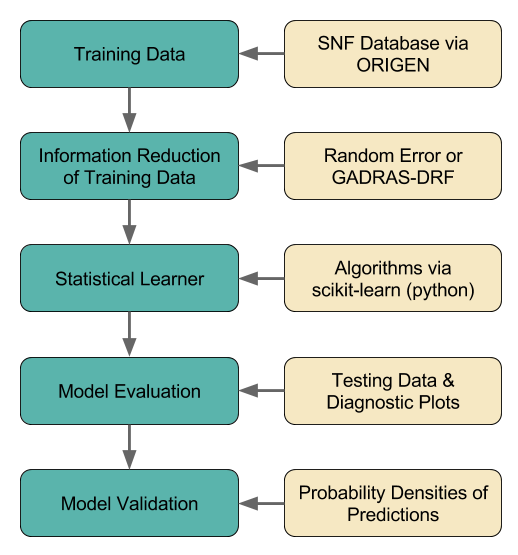
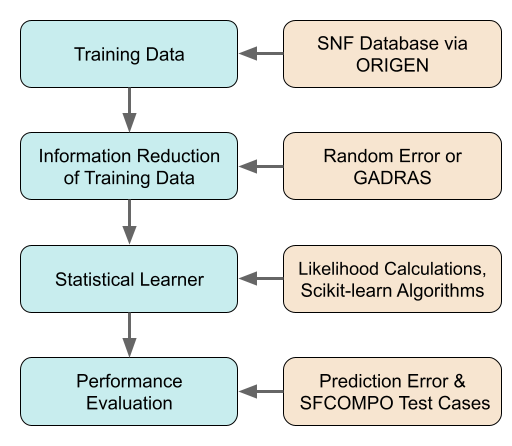
done with first pass edits on intro

diff --git a/document/chapters/intro/intro.tex b/document/chapters/intro/intro.tex
@@ -2,20 +2,20 @@
 \label{ch:intro}
 
 The realm of nuclear security involves parallel efforts in nonproliferation
-(verification of treaty compliance, monitoring for smuggling, proper storage
-and transportation of nuclear materials), cyber security, minimizing stocks of
+(verification of treaty compliance, monitoring for smuggling, proper storage and
+transportation of nuclear materials), cyber security, minimizing stocks of
 weaponizable materials, disaster response training, and nuclear forensics. All
 of these efforts have been continually improving, but there was a gap regarding
 the ability of the \gls{US} to coordinate and respond to a nuclear incident,
-especially with the technical portion of nuclear forensics: characterization
-and analysis. After all, the first textbook on the topic was published in 2005
+especially with the technical portion of nuclear forensics: characterization and
+analysis. After all, the first textbook on the topic was published in 2005
 \cite{nftext_2005}. In 2006, the \gls{US} \gls{DHS} founded the \gls{NTNFC}
 within the \gls{DNDO}, with the mission to establish a robust nuclear forensics
 capability by attributing radioactive materials with demonstrable proof. This
-endeavor was and is highly dependent on inter-agency cooperation. In
-2017 \-- 2018, the \gls{DNDO} was absorbed into the newer \gls{CWMD} office, and
-in 2019, much of the nuclear forensics research operation was moved to multiple
-offices within the \gls{DOE} \gls{NNSA}. 
+endeavor was and is highly dependent on inter-agency cooperation. In 2017 \--
+2018, the \gls{DNDO} was absorbed into the newer \gls{CWMD} office, and in 2019,
+much of the nuclear forensics research operation was moved to multiple offices
+within the \gls{DOE} \gls{NNSA}. 
 
 Multiple fields contribute to a nuclear forensics capability, such as
 radiochemical separations, material collection techniques, detector technology,
@@ -23,7 +23,26 @@ material library development, and identifying forensic signatures. These needs
 vary based on whether the material being collected is post-detonation (e.g.,
 bomb debris) or pre-detonation (e.g., \glsreset{SNF}\gls{SNF}).  In the
 pre-detonation realm, this project focuses on statistical methods to to model
-\gls{SNF} production history using nondestructive detector measurements. 
+the production history of a nuclear material using measurements of nuclides
+present in the \gls{SNF}.
+
+\gls{SNF} is identified in this work by focusing on four characteristics in
+particular that can potentially provide material attribution: reactor type,
+burnup, initial \gls{U235} enrichment, and time since fuel irradiation. 
+\todo[inline]{need to introduce this early but not sure I like it here}
+\begin{enumerate}
+  \item The reactor type is classified as one of the three most common types of
+  commercial power reactors: \gls{PWR}, \gls{BWR}, or \gls{PHWR}. 
+  \item The burnup describes how much energy was produced by the fuel, taking
+  on the units megawatt-days (or gigawatt-days) per metric ton of heavy metal
+  (or initial uranium); it is referred to in this work as $MWd/MTU$, and
+  sometimes $GWd/MTU$.  
+  \item The enrichment is the percentage of \gls{U235} with respect to the
+  entire amount of uranium in the fuel, and is reported as $\%U235$. 
+  \item Lastly, the time since irradiation is defined as how long the fuel has
+  been out of the reactor core, and is discussed usually in $days$, but
+  sometimes $years$. 
+\end{enumerate}
 
 \section{Motivation}
 \label{sec:motivation}
@@ -37,7 +56,7 @@ trafficking or malicious use are summarized in Figure \ref{fig:incidents}.
 These are the circumstances in which a robust nuclear forensics capability is
 beneficial.
 
-\begin{figure}[!bht]
+\begin{figure}[!tbh]
   \makebox[\textwidth][c]{\includegraphics[width=\linewidth]{./chapters/intro/nucleartrafficking.png}}
   \caption{Incidents reported to the \acrshort{IAEA} \acrshort{ITDB} related to 
            malicious use. Included are highly enriched uranium (12), 
@@ -83,125 +102,133 @@ a focus on why statistical methods in particular are being pursued.
 \section{Methodology}
 \label{sec:methodology}
 
-As previously mentioned, the typical workflow of the technical portion of a
-forensics investigation is to take and analyze measurements of an unknown
-nuclear material. The measurements are compared to databases filled with
-previously measured standard materials with known reactor parameters, and/or
-the reactor parameters are calculated from empirical relationships.  As this
-work focuses on \gls{SNF}, these measurements are elemental, chemical, and
-radiological in nature.  Because creating databases from real measurements to
-represent \gls{SNF} from reactor technologies from around the world is not
-within the scope of this project, the database in this study will be created
-from simulations via the \gls{SCALE} \cite{scale} system using \gls{ORIGEN}
-\cite{origen}. 
-
-\todo[inline]{transition}
-The top panel in Figure \ref{fig:nfworkflows} shows an example technical nuclear
-forensics workflow as it could occur in the real world for a pre-detonation
-scenario.  After a sample is obtained, characterization begins.  Next, the
-results of these techniques are then compared against existing standard
-materials databases to obtain the desired reactor parameters. These steps would
-be performed iteratively in a real investigation, first using non-destructive
-measurements, and then destructive measurements.  The steps in Figure
-\ref{fig:nfworkflows} are obtaining reactor history information, if available,
-and reporting the results to the investigators. 
+The main goal of the technical portion of a forensics investigation is to
+provide a means of nuclear material attribution by taking and analyzing
+measurements of the unknown material.  The methodology of this work is based on
+this process. The top panel in Figure \ref{fig:nfworkflows} shows an example
+technical nuclear forensics workflow as it could occur in the real world for a
+pre-detonation scenario.  After a sample is obtained, characterization begins.
+With a focus on \gls{SNF}, elemental, chemical, and radiological measurements
+are taken.  They are compared to databases filled with previously measured
+standard materials with known reactor parameters, and/or the reactor parameters
+are calculated from empirical relationships.  These steps might be performed
+iteratively in a real investigation, first using non-destructive measurements
+(e.g., gamma spectroscopy), and then destructive measurements (e.g., mass
+spectrometry).  The reactor parameters could then allow the lookup of reactor
+history information, if available, and these results would be provided to
+investigators. 
 
 \begin{figure}[!tbh]
   \makebox[\textwidth][c]{\includegraphics[width=\linewidth]{./chapters/intro/ForensicsWorkflows.png}}
-  \caption{Schematic comparing nuclear forensics workflow in the top panel with 
-           two approaches that a research workflow could follow.}
+  \caption{Schematic comparing nuclear forensics investigative workflow in the 
+           top panel with research approaches for physical and computational 
+           experiments.}
   \label{fig:nfworkflows}
 \end{figure}
 
-Next, the middle and bottom panels in Figure \ref{fig:nfworkflows} are
-analagous physical and computational experimental workflows, respectively.
-Both panels would have validated measurements of \gls{SNF}; the middle panel
-shows this being done in the laboratory and the bottom panel shows that these
-are values from a simulation. The goal of an experimental laboratory study is
-to test or develop empirical relationships between forensics signatures and the
-desired reactor parameters. The goal of computational studies can be this,
-finding new empirical relationships, or performing forensics workflows prior to
-the implementation of new reactor technologies.  For studying alternative
-measurement techniques or a slight difference in the overall approach, a
-researcher would iterate through multiple studies using known materials to
-probe sensitivities or other weaknesses in the procedure.
+Next, the investigation process can be translated to an experimental workflow.
+The middle and bottom panels in Figure \ref{fig:nfworkflows} are analagous
+physical and computational experiments, respectively.  Both of these
+experimental scenarios would have validated measurements of \gls{SNF}; the
+middle panel shows this being done in the laboratory and the bottom panel shows
+that these are values from a simulation. The goal of an experimental laboratory
+study is to test or develop empirical relationships between forensics
+signatures and the desired reactor parameters. The goal of computational
+studies can be this, finding new empirical relationships, or performing
+forensics workflows prior to the implementation of new reactor technologies.
+For studying alternative measurement techniques or a slight difference in the
+overall approach, a researcher would iterate through multiple studies using
+known materials to probe sensitivities or other weaknesses in the procedure.
 
-In the simulation and statistical learning paradigm, we need to determine how
-much information to what quality is needed to train an \gls{ML} model;
-the model must give appropriate predictions of reactor parameters given a set
-of measurements from a \textit{test} sample. 
-\todo[inline]{a bit out of place; maybe delete} 
+As mentioned, these processes have informed the experimental design of this
+work, which follows the bottom panel in Figure \ref{fig:nfworkflows}. A test
+sample of simulated \gls{SNF} will undergo a measurement that is computed using
+techniques that mimic destructive or non-destructive measurements of nuclides
+present in the sample.  Using a statistical model, the measurements are
+compared to a database of \gls{SNF} entries and their reactor parameters,
+finding a closest match or prediction for the test sample. Since the test
+sample has previously known parameters, the error in the prediction can be
+measured and the method can be tuned. 
 
-After creating a set of gamma spectra corresponding to simulations of \gls{SNF}
-resulting from chosen reactor operation conditions, the next step is to choose
-an algorithm that performs model creation via statistical learning.
-Statistical learners have varied strengths and weaknesses based on what is
-being predicted and how they implement optimization.  Chosen for this study are
-simple regression algorithms for burnup prediction: nearest neighbor and
-decision trees.  For comparison, \acrfull{SVR} is used because it is known to
-handle highly dimensional data sets well.  These algorithms are introduced in
-Section \ref{sec:algs}.
+In addition to the steps of an investigation informing the experimental
+protocol, there are other considerations to take into account. In the
+simulation and statistical learning paradigm, it is important to determine how
+much information to what quality is needed to train an \gls{ML} model. Because
+creating databases from real measurements to represent \gls{SNF} from reactor
+technologies from around the world is not within the scope of this project, the
+database in this study will be created from simulations via the \gls{SCALE}
+\cite{scale} system using \gls{ORIGEN} \cite{origen}. This is the first process
+shown in Figure \ref{fig:intromethod}, referred to as training data because
+this is what input information is called in \gls{ML}. It is covered in Section
+\ref{sec:snfsim}.
+
+\begin{figure}[!hbt]
+  \makebox[\textwidth][c]{\includegraphics[width=0.3\linewidth]{./chapters/intro/methodology_intro.png}}
+  \caption{Flowchart of the steps the experimental methodology for this work.}
+  \label{fig:intromethod}
+\end{figure}
+
+The second process shown in Figure \ref{fig:intromethod} is information
+reduction, and is detailed in Section \ref{sec:inforeduc}.  This refers to
+measurement error and/or the measurement type that provides the nuclide
+information, and allows the extension of this workflow to better mimic
+constraints seen in a real-world setting.  For example, the primary example
+here is the reduction of information quality via gamma ray detector, which
+provide less exact nuclide information than, e.g., mass spectrometry.  The
+radionuclide concentrations from the simulations can be converted into gamma
+energies, which then undergo a detector response calculation to represent real
+as-measured gamma spectra as closely as possible.  If an algorithm could
+overcome the limitations of gamma detection and still provide useful results,
+this would warrant further studies and perhaps be field-applicable.
+
+The third step is to choose a method that performs model creation via
+statistical learning.  Statistical learners have varied strengths and
+weaknesses based on what is being predicted and how they implement
+optimization. Outlined in Section \ref{sec:algs} are three methods:
+\textit{k}-Nearest Neighbors, Decision Trees, and \gls{MLL} calculations. The
+first two are implemented via a python \gls{ML} library, scikit-learn
+\cite{scikit}. The \gls{MLL} method was originally developed for similar
+attribution work in the following studies: \cite{mll_method, mll_sensitivity,
+mll_validate}.
 
 After the training is complete, the results of each models' predictions must be
-evaluated according to \gls{ML} best practices.  The machine-learned
-model predicts the parameters of a previously unseen test set.  The difference
-between the model predictions and the actual simulated parameters is known as
-the testing error.  The testing error with respect to various specifications
-such as the training set size, number of features, or algorithm parameters
-provides insight into the model performance. These results are broadly known as
-diagnostic plots and show if the predictions are due to good performance or bad
-fitting. 
+evaluated according to their prediction performance, denoted as the fourth
+process in Figure \ref{fig:intromethod}.  The machine-learned model predicts
+the parameters of a previously unseen test set.  The difference between the
+model predictions and the actual simulated parameters is known as the testing
+error or prediction error. \todo[inline]{link section} 
 
-After the models are evaluated, it will be important to compare them both
-against each other and against other computational forensics methods. Thus, a
-Bayesian approach from the field of inverse problem theory will be used to give
-the probability distribution of the predictions so that the statistically
-generated predictions can be evaluated directly against other solutions, such
-as the optimization-based method, \gls{INDEPTH}. 
-\todo[inline]{This might not be possible, or robustly possible}
-
-Next, information reduction (within the training and testing data sets) must be
-used to investigate the extension of this workflow to the real world. The
-primary example here is the reduction of information quality via gamma ray
-detectors.  If an algorithm could overcome the limitations of gamma detection
-and still provide useful results, this would warrant further studies and
-perhaps be field-applicable.
-
-Thus, ultimately, the goal is to answer the question \textit{How does the
-ability to determine forensic-relevant spent nuclear fuel attributes using
-statistical techniques degrade as less information is available?}. 
+Thus, ultimately, this research protocol is designed to answer the question
+\textit{How does the ability to determine forensic-relevant spent nuclear fuel
+attributes using machine-learning techniques degrade as less information is
+available?}. 
 
 \section{Goals}
 
 The main purpose of this work is to evaluate the utility of statistical methods
 as an approach to determine nuclear forensics-relevant quantities as less
 information is available. \Gls{ML} algorithms are used to train models to
-provide these values (e.g., reactor type, time since irradiation, burnup) from
-the available information, or statistical methods are used for probabilistic
-matching.  The training data is simulated using \gls{ORIGEN}, which provides an
-array of nuclide concentrations as the features ($X$) and the parameters of
-interest ($y$) are provided from the simulation inputs.  Information reduction
-is carried out using computationally generated gamma spectra; the radionuclide
-concentrations from the simulations can be converted into gamma energies, which
-then undergo a detector response calculation to represent real as-measured
-gamma spectra as closely as possible.  \Gls{ML} best practices are used to
-evaluate the performance of the chosen algorithms, and inverse problem theory
-is used to provide an interval of confidence in the model predictions.
-\todo[inline]{update me if necessary}
+provide these categories (reactor type) and values (burnup, enrichment, and
+time since irradiation) from the available information.  The training data is
+simulated using \gls{ORIGEN}, which provides an array of nuclide measurements
+as the features ($X$) and the parameters of interest ($y$) are provided from
+the simulation inputs. Information reduction is carried out using artificially
+injected random error or computationally generated gamma spectra. The
+prediction errors ($y_{true}$ versus $y_{pred}$) will be studied to draw
+conclusions about the capability of statistical methods to inform nuclear
+material attribution with less precise detection techniques.
+
+\todo[inline]{update everything below} 
 
 The necessary background is covered in Chapter \ref{ch:litrev}.  First, an
 introduction to the broader field of nuclear forensics is in Section
 \ref{sec:nfoverview} to place this work in the context of the technical mission
 areas. After that, a short discussion of the field of \gls{ML}, the algorithms
-used, and validation methods are in Section \ref{sec:mlback}.
-\todo[inline]{this will have to be reworded after the lit review is updated}
-Section \ref{sec:fcsim} includes information about the software used to
-generate the training data and perform the predictions. Lastly, a review of
-statistical methods being used in studies of forensics analysis is covered in
-Section \ref{sec:stats4nf}. 
-
-...........................................................................
-\todo[inline]{Update after research chapters are flushed out}
+used, and validation methods are in Section \ref{sec:mlback}.  Section
+\ref{sec:fcsim} includes information about the software used to generate the
+training data and perform the predictions.  Lastly, a review of statistical
+methods being used in studies of forensics analysis is covered in Section
+\ref{sec:stats4nf}. 
 
 After the existing work is discussed, the methodology and a demonstration of
 the experimental components is introduced next in Chapter \ref{ch:demo_method}.
@@ -209,11 +236,4 @@ This will cover the simulated training data in Section \ref{sec:training}, the
 the details for training models in Section \ref{sec:statmodel}, and the
 process of model evaluation in Section \ref{sec:valid}.  
 
-Finally, Chapter \ref{ch:proposal} summarizes the official thesis research
-proposal. After the preparatory tasks are covered in Section \ref{sec:prep},
-there are three experiments outlined in Sections \ref{sec:exp1},
-\ref{sec:exp2}, and \ref{sec:exp3}. Qualitiative hypotheses as well as
-alternative directions for risk mitgation are discussed throughout these
-sections.  A detailed explanation of the method comparison step is covered next
-in Section \ref{sec:modelcompare}.  Lastly, a projected timeline for the
-completion of this project is in Section \ref{sec:timeline}.
+Finally, 

diff --git a/document/includes/acros.tex b/document/includes/acros.tex
@@ -37,8 +37,10 @@
 \newacronym{PCA}{PCA}{principal components analysis}
 \newacronym{ICA}{ICA}{independent components analysis}
 \newacronym{PLS}{PLS}{partial least squares}
-\newacronym{MLE}{MLE}{maximum likelihood estimation}
+\newacronym{MLL}{MLL}{maximum log-likelihood}
 \newacronym{SCALE}{SCALE}{Standardized Computer Analyses for Licensing Evaluation}
 \newacronym{ML}{ML}{machine learning}
 \newacronym{CV}{CV}{cross-validation}
+\newacronym{U235}{U235}{uranium-235}
+\newacronym{U238}{U238}{uranium-238}
 %\newacronym{}{}{}
